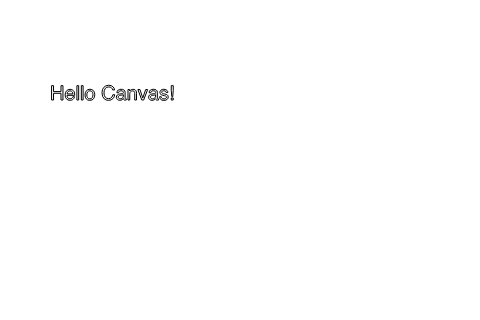
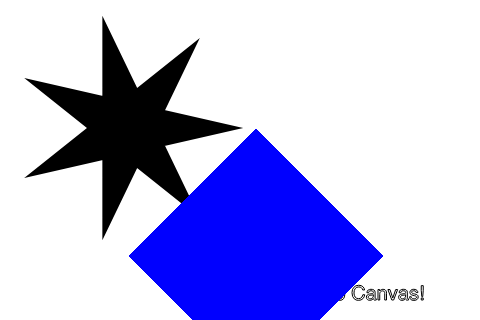
test

Changed region(s): [[0.0625, 0.0625, 0.9062, 1.0]]

diff --git a/src/skia/hello_skia_sdl2.cpp b/src/skia/hello_skia_sdl2.cpp
@@ -4,52 +4,57 @@
 #include "include/core/SkFont.h"
 #include "SDL.h"
 
-//SDL头文件被我放入到了include文件夹中。
+// SDL头文件被我放入到了include文件夹中。
 SkBitmap draw(int w, int h) {
-    //声明
+    // 声明
     SkBitmap bitmap;
-    //设置Bitmap的配置信息
+    // 设置Bitmap的配置信息
     bitmap.setInfo(SkImageInfo::Make(w, h, kBGRA_8888_SkColorType, kOpaque_SkAlphaType));
-    //转换为像素填充
+    // 转换为像素填充
     bitmap.allocPixels();
-    //创建画布
+    // 创建画布
     SkCanvas canvas(bitmap);
-    //创建画笔
+    // 创建画笔
     SkPaint paint;
-    //设置画布颜色
+    // 设置画布颜色
     canvas.clear(SK_ColorWHITE);
-    //设置画笔抗锯齿
+    // 设置画笔抗锯齿
     paint.setAntiAlias(true);
-    //设置画笔颜色(此处为红色)
+    // 设置画笔颜色(此处为红色)
     paint.setARGB(255, 255, 0, 0);
-    //绘制圆形
+    // 绘制圆形
     canvas.drawCircle(80, 80, 40, paint);
-    //绘制线段
+    // 绘制线段
     canvas.drawLine(0, 280, w, 280, paint);
-    //设置字体大小
+    // 设置字体大小
     SkFont font;
     font.setSize(24);
-    //绘制字体
+    // 绘制字体
     canvas.drawString("Hello, SDL!", 100, 200, font, paint);
-
     //返回SkBitmap对象
     return bitmap;
 }
 
+// 程序的入口点
 int main() {
-    SDL_Init(SDL_INIT_VIDEO);
-
+    // 初始化SDL为视频显示
+    SDL_Init(SDL_INIT_VIDEO | SDL_INIT_EVENTS);
+    // 创建窗口
     SDL_Window *window = SDL_CreateWindow("SDL Window", SDL_WINDOWPOS_UNDEFINED, SDL_WINDOWPOS_UNDEFINED, 800, 600,
                                           SDL_WINDOW_SHOWN);
-    SDL_Renderer *renderer = SDL_CreateRenderer(window, -1, SDL_RENDERER_ACCELERATED);
-
+    // SDL_Renderer *renderer = SDL_CreateRenderer(window, -1, SDL_RENDERER_ACCELERATED);
+    SDL_Renderer *renderer = SDL_CreateRenderer(window, -1, SDL_RENDERER_ACCELERATED | SDL_RENDERER_PRESENTVSYNC);
+    // 获取绘制后的Bitmap
     SkBitmap bitmap = draw(800, 600);
 
+    // 通过Bitmap的像素数据创建表面
     SDL_Surface *surface = SDL_CreateRGBSurfaceFrom(bitmap.getPixels(), bitmap.width(), bitmap.height(), 32,
                                                     bitmap.width() * sizeof(uint32_t), 0xFF0000, 0x00FF00, 0x0000FF,
                                                     0xFF000000);
+    // 创建纹理
     SDL_Texture *texture = SDL_CreateTextureFromSurface(renderer, surface);
 
+    //通过bitmap创建矩形
     SDL_Rect dstrect = {0, 0, bitmap.width(), bitmap.height()};
 
     SDL_Event event;
@@ -60,18 +65,27 @@ int main() {
             if (event.type == SDL_QUIT) {
                 quit = true;
             }
+            if (event.type == SDL_FINGERUP) {
+                quit = true;
+            }
         }
-
+        // 清理渲染器
         SDL_RenderClear(renderer);
+        // 辅助纹理到渲染器
         SDL_RenderCopy(renderer, texture, NULL, &dstrect);
+        // 显示到窗口
         SDL_RenderPresent(renderer);
     }
-
+    // 释放表面
     SDL_FreeSurface(surface);
+    // 释放纹理
     SDL_DestroyTexture(texture);
+    // 释放渲染器
     SDL_DestroyRenderer(renderer);
+    // 释放窗口
     SDL_DestroyWindow(window);
+    // 结束SDL
     SDL_Quit();
-
+    // 程序退出
     return 0;
 }

diff --git a/src/skia/canvas/learn_canvas.cpp b/src/skia/canvas/learn_canvas.cpp
@@ -1,0 +1,65 @@
+#include <include/core/SkCanvas.h>
+#include <include/core/SkBitmap.h>
+#include <include/core/SkPaint.h>
+#include <include/core/SkPath.h>
+#include <include/core/SkSurface.h>
+#include <include/core/SkFont.h>
+#include <include/codec/SkCodec.h>
+#include <include/core/SkStream.h>
+#include <include/core/SkTextBlob.h>
+#include <include/encode/SkPngEncoder.h>
+#include "include/gpu/GrDirectContext.h"
+#include "include/gpu/gl/GrGLInterface.h"
+#include "include/core/SkData.h"
+#include "include/core/SkImage.h"
+#include "include/gpu/ganesh/SkSurfaceGanesh.h"
+#include "../file.h"
+
+void example(SkCanvas* canvas) {
+    const SkScalar scale = 256.0f;
+    const SkScalar R = 0.45f * scale;
+    const SkScalar TAU = 6.2831853f;
+    SkPath path;
+    for (int i = 0; i < 5; ++i) {
+        SkScalar theta = 2 * i * TAU / 5;
+        if (i == 0) {
+            path.moveTo(R * cos(theta), R * sin(theta));
+        } else {
+            path.lineTo(R * cos(theta), R * sin(theta));
+        }
+    }
+    path.close();
+    SkPaint p;
+    p.setAntiAlias(true);
+    canvas->clear(SK_ColorWHITE);
+    canvas->translate(0.5f * scale, 0.5f * scale);
+    canvas->drawPath(path, p);
+}
+
+void out_cpu_bitmap(int width, int height,
+            void (*draw)(SkCanvas*),
+            const char* path) {
+    // 创建一个位图设备
+    SkBitmap bitmap;
+    SkImageInfo imageInfo = SkImageInfo::Make(width, height, kBGRA_8888_SkColorType, kPremul_SkAlphaType);  //设置位图信息
+    bitmap.allocPixels(imageInfo, imageInfo.minRowBytes());  //为位图设备绑定信息和分配内存
+
+    // 创建画布
+    SkCanvas canvas(bitmap);
+    draw(&canvas);
+    SkFILEWStream file(path);  //创建文件输出流
+    if (!file.isValid()) {
+        return ;
+    }
+    SkPngEncoder::Encode(&file, bitmap.pixmap(), {});
+}
+
+int main(int argc, char *const argv[]) {
+    std::string current_directory = File::get_current_directory();
+    std::filesystem::path current_path = std::filesystem::current_path();
+    current_directory = current_path.parent_path().parent_path();
+    std::cout << "当前目录是: " << current_directory << std::endl;
+
+    out_cpu_bitmap(256, 256, example, (current_directory + PATH_SEPARATOR + "out_cpu_bitmap.png").c_str());
+    return 1;
+}

diff --git a/src/skia/canvas/hello_canvas.cpp b/src/skia/canvas/hello_canvas.cpp
@@ -1,10 +1,13 @@
 #include <include/core/SkCanvas.h>
 #include <include/core/SkBitmap.h>
 #include <include/core/SkPaint.h>
+#include <include/core/SkPath.h>
 #include <include/core/SkTypeface.h>
 #include <include/core/SkFont.h>
 #include <include/codec/SkCodec.h>
 #include <include/core/SkStream.h>
+#include <include/core/SkTextBlob.h>
+#include <include/core/SkRRect.h>
 #include <include/encode/SkPngEncoder.h>
 #include "../file.h"
 
@@ -24,8 +27,37 @@ void draw(SkCanvas *canvas) {
 
     // Translate and draw the text:
     canvas->save();
-    canvas->translate(SkIntToScalar(50), SkIntToScalar(100));
+    canvas->translate(SkIntToScalar(300), SkIntToScalar(300));
     canvas->drawSimpleText(message, strlen(message), SkTextEncoding::kUTF8, 0, 0, font, paint);
+    canvas->restore();
+}
+
+void draw1(SkCanvas* canvas) {
+    const SkScalar scale = 256.0f;
+    const SkScalar R = 0.45f * scale;
+    const SkScalar TAU = 6.2831853f;
+    SkPath path;
+    path.moveTo(R, 0.0f);
+    for (int i = 1; i < 7; ++i) {
+        SkScalar theta = 3 * i * TAU / 7;
+        path.lineTo(R * cos(theta), R * sin(theta));
+    }
+    path.close();
+    SkPaint p;
+    p.setAntiAlias(true);
+    // canvas->clear(SK_ColorWHITE);
+    canvas->translate(0.5f * scale, 0.5f * scale);
+    canvas->drawPath(path, p);
+}
+
+void draw2(SkCanvas* canvas) {
+    canvas->save();
+    canvas->translate(SkIntToScalar(128), SkIntToScalar(128));
+    canvas->rotate(SkIntToScalar(45));
+    SkRect rect = SkRect::MakeXYWH(-90.5f, -90.5f, 181.0f, 181.0f);
+    SkPaint paint;
+    paint.setColor(SK_ColorBLUE);
+    canvas->drawRect(rect, paint);
     canvas->restore();
 }
 
@@ -43,6 +75,8 @@ int main(int argc, char *const argv[]) {
     SkCanvas canvas(bitmap);
 
     draw(&canvas);
+    draw1(&canvas);
+    draw2(&canvas);
 
     // 保存到文件
     SkFILEWStream file((current_directory + PATH_SEPARATOR + "hello_canvas.png").c_str());  //创建文件输出流

diff --git a/src/skia/hello_skia.cpp b/src/skia/hello_skia.cpp
@@ -13,19 +13,23 @@ int main(int argc, char *const argv[]) {
     std::string current_directory = current_path.parent_path().parent_path();
     std::cout << "当前目录是: " << current_directory << std::endl;
 
-    SkBitmap bitmap;  //创建一个位图设备
+    // 创建一个位图设备
+    SkBitmap bitmap;
     SkImageInfo imageInfo = SkImageInfo::Make(480, 320, kBGRA_8888_SkColorType, kPremul_SkAlphaType);  //设置位图信息
     bitmap.allocPixels(imageInfo, imageInfo.minRowBytes());  //为位图设备绑定信息和分配内存
 
-    SkCanvas canvas(bitmap);  //创建画布
-    SkPaint paint;  //创建画笔
+    // 创建画布
+    SkCanvas canvas(bitmap);
+    // 创建画笔
+    SkPaint paint;
     canvas.clear(SkColorSetARGB(0xFF, 0x14, 0x14, 0x14));
-    //将画布清空并填充一种颜色，注意这里是ARGB，Alpha通道值在第一位，同时可以直接用16进制数表示，例如上面这个颜色值可以表示为0xFF141414
+    // 将画布清空并填充一种颜色，注意这里是ARGB，Alpha通道值在第一位，同时可以直接用16进制数表示，例如上面这个颜色值可以表示为0xFF141414
     paint.setColor(SK_ColorWHITE);
-    //设置画笔颜色
-
-    SkFont font;  //创建字体设备
-    font.setSize(64);  //设置字体尺寸
+    // 设置画笔颜色
+    // 创建字体设备
+    SkFont font;
+    // 设置字体尺寸
+    font.setSize(64);
     // font.setTypeface(SkTypeface::MakeFromName("Microsoft YaHei", SkFontStyle::Normal()));  //设置字体
     SkString text("Hello, Skia!");
     canvas.drawSimpleText(text.c_str(), text.size(), SkTextEncoding::kUTF8, 0, 64, font, paint);  //在画布上绘制字体
